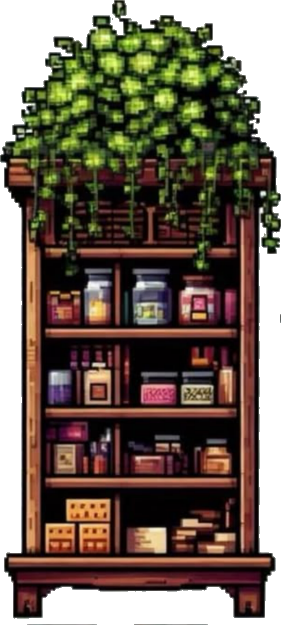
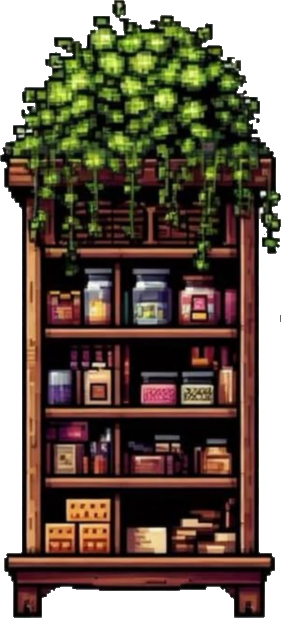
Reposition HUD objective box, ground ingredients cabinet to first plank, and clean white outline halo

diff --git a/main.js b/main.js
@@ -120,8 +120,8 @@ canvas.addEventListener('mousedown', (e) => {
     }
   } else if (currentState === GameState.GAMEPLAY && currentRoom === RoomState.WORKROOM) {
     // Check tap on Main Cabinet
-    if (mouseCanvasX >= 850 && mouseCanvasX <= 1070 && mouseCanvasY >= 100 && mouseCanvasY <= 470) {
-      const dist = Math.sqrt(Math.pow((player.x + player.renderWidth/2) - 960, 2) + Math.pow((player.y + player.renderHeight/2) - 440, 2));
+    if (mouseCanvasX >= 850 && mouseCanvasX <= 1070 && mouseCanvasY >= 100 && mouseCanvasY <= 543) {
+      const dist = Math.sqrt(Math.pow((player.x + player.renderWidth/2) - 960, 2) + Math.pow((player.y + player.renderHeight/2) - 500, 2));
       if (dist < 250) {
         activeCabinet = 'INGREDIENT';
         openCabinetView();
@@ -171,8 +171,8 @@ canvas.addEventListener('touchstart', (e) => {
     }
   } else if (currentState === GameState.GAMEPLAY && currentRoom === RoomState.WORKROOM) {
     // Check tap on Main Cabinet
-    if (mouseCanvasX >= 850 && mouseCanvasX <= 1070 && mouseCanvasY >= 100 && mouseCanvasY <= 470) {
-      const dist = Math.sqrt(Math.pow((player.x + player.renderWidth/2) - 960, 2) + Math.pow((player.y + player.renderHeight/2) - 440, 2));
+    if (mouseCanvasX >= 850 && mouseCanvasX <= 1070 && mouseCanvasY >= 100 && mouseCanvasY <= 543) {
+      const dist = Math.sqrt(Math.pow((player.x + player.renderWidth/2) - 960, 2) + Math.pow((player.y + player.renderHeight/2) - 500, 2));
       if (dist < 250) {
         activeCabinet = 'INGREDIENT';
         openCabinetView();
@@ -718,7 +718,7 @@ function checkCollision(x, y, width, height) {
     // Furniture obstacle bounding boxes in full-screen Workroom
     const obstacles = [
       { x: 300, y: 410, w: 120, h: 66 },   // Stove
-      { x: 850, y: 410, w: 220, h: 60 },   // Main Cabinet
+      { x: 850, y: 470, w: 220, h: 73 },   // Main Cabinet
       { x: 1460, y: 410, w: 120, h: 60 },  // Second Cabinet
       { x: 1590, y: 440, w: 120, h: 30 },  // Potted Plant
       { x: 830, y: 620, w: 260, h: 128 }   // Worktable
@@ -1161,7 +1161,7 @@ function update(dt) {
     // Cabinet proximity & interaction (only in Workroom)
     if (currentRoom === RoomState.WORKROOM) {
       const mainCenterX = 960;
-      const mainCenterY = 440;
+      const mainCenterY = 500;
       const bottleCenterX = 1520;
       const bottleCenterY = 440;
       
@@ -1948,11 +1948,11 @@ function drawWorkroomEntities() {
       }
     },
     {
-      y: 486,
+      y: 543,
       draw: () => {
-        // Draw Main Cabinet (Y=-4, bottom Y=486, aspect-ratio preserved size: 220x490)
+        // Draw Main Cabinet (Y=53, bottom Y=543, aspect-ratio preserved size: 220x490)
         if (cabinetIngredientsImage.complete) {
-          ctx.drawImage(cabinetIngredientsImage, 850, -4, 220, 490);
+          ctx.drawImage(cabinetIngredientsImage, 850, 53, 220, 490);
         } else {
           drawSprite(ctx, mainCabinetSprite, mainCabinetColorMap, 880, 280, pixelScale);
         }

diff --git a/index.html b/index.html
@@ -26,10 +26,6 @@
 
       <!-- HUD Overlay -->
       <div id="hud" class="overlay hidden">
-        <div class="hud-panel time-panel">
-          <span id="day-text">Day 1</span>
-          <span id="time-text">08:00 AM</span>
-        </div>
         <div class="hud-panel objective-panel">
           <span>Objective: Open Shop</span>
         </div>
